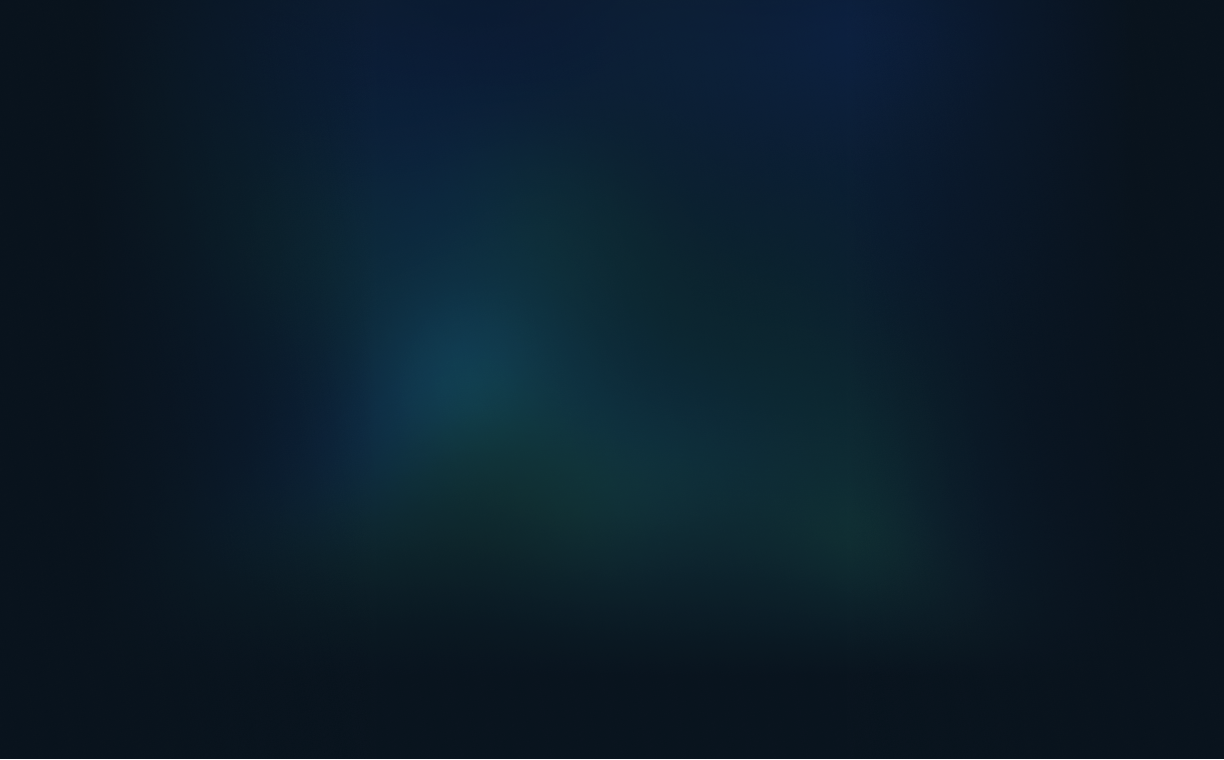
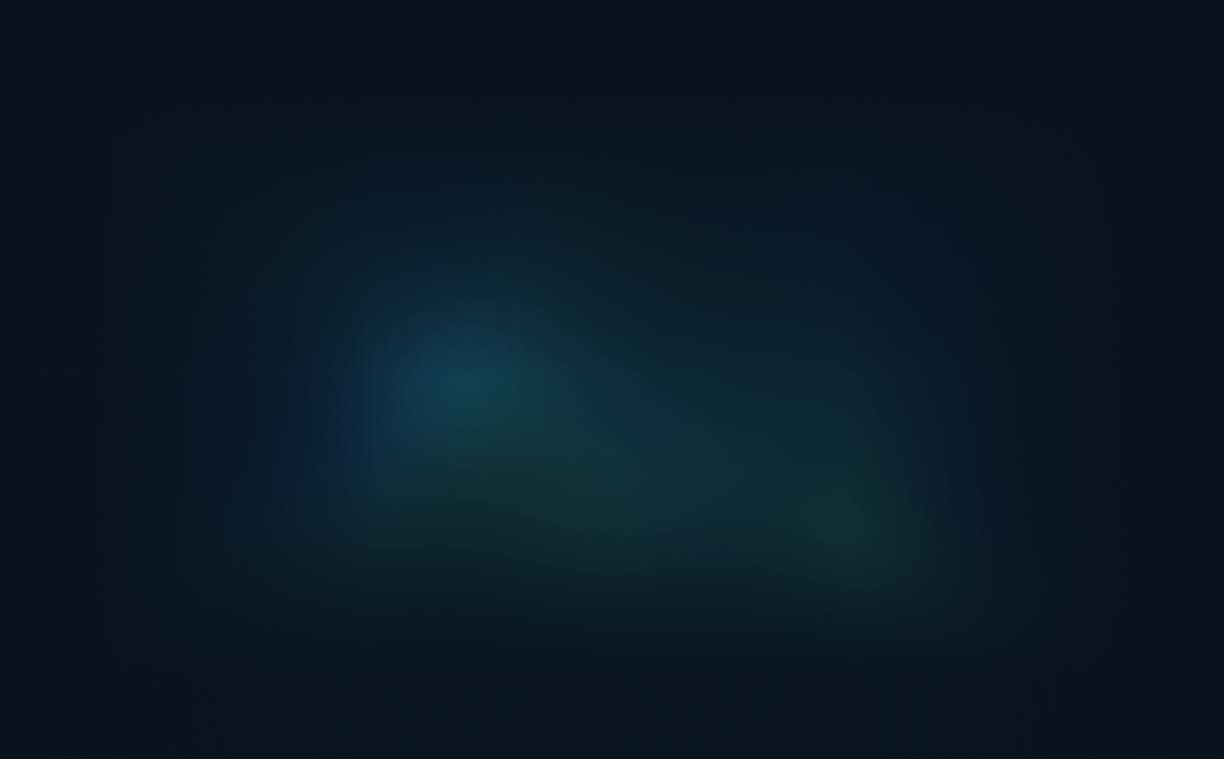
new image footer

Changed region(s): [[0.2794, 0.0, 0.7761, 0.1816]]

diff --git a/src/components/pre-footer/index.tsx b/src/components/pre-footer/index.tsx
@@ -8,7 +8,7 @@ import { HiOutlineArrowUp } from 'react-icons/hi';
 const PreFooter = () => {
   return (
     <section className="relative m-auto font-satoshi">
-      <div className="relative m-auto flex w-full space-y-12 bg-[url('/images/landing/prefooter.webp')] bg-contain bg-center bg-no-repeat">
+      <div className="relative m-auto flex h-[694px] w-auto space-y-12 bg-[url('/images/landing/prefooter.webp')] bg-contain bg-center bg-no-repeat">
         <div className="relative m-auto flex w-full max-w-[1200px] space-y-12 pb-32 pt-2">
           <div className="mt-44">
             <div className="m-auto w-full space-y-10 ">

diff --git a/src/app/layout.tsx b/src/app/layout.tsx
@@ -42,7 +42,7 @@ import 'ol/ol.css';
 export default function RootLayout({ children }: { children: ReactNode }) {
   return (
     <html lang="en" className={`${inter.className} ${satoshi.className} h-full min-h-screen`}>
-      <body className="mx-auto h-full min-h-screen bg-gradient-to-b from-[#0a141e] to-[#0a1520] font-inter">
+      <body className="mx-auto h-full min-h-screen bg-brand-500 font-inter">
         <Providers>
           <div className="flex h-full flex-col">
             <main className="relative h-full flex-1">{children}</main>

diff --git a/tailwind.config.js b/tailwind.config.js
@@ -101,11 +101,6 @@ module.exports = {
         'accordion-down': 'accordion-down 0.2s ease-out',
         'accordion-up': 'accordion-up 0.2s ease-out',
       },
-      backgroundImage: {
-        'custom-horizontal-gradient':
-          'linear-gradient(to right,  #0A1A2C 22%, #0C1E34 50%, #0A1521 75%, #0A1521 100%)',
-        'custom-top-gradient': 'linear-gradient(#0A141E, #0A1A2C)',
-      },
     },
   },
   plugins: [require('tailwindcss-animate'), forms, typography],

diff --git a/src/components/datasets-grid/index.tsx b/src/components/datasets-grid/index.tsx
@@ -282,12 +282,6 @@ const LandingDatasets = () => {
           )}
         </div>
       </div>
-
-      <div className="relative h-32">
-        <div className="h-32 bg-custom-horizontal-gradient"></div>
-        <div className="absolute inset-0 h-full bg-opacity-50 backdrop-blur-sm"></div>
-        <div className="absolute inset-0 h-full bg-custom-top-gradient"></div>
-      </div>
     </Element>
   );
 };
